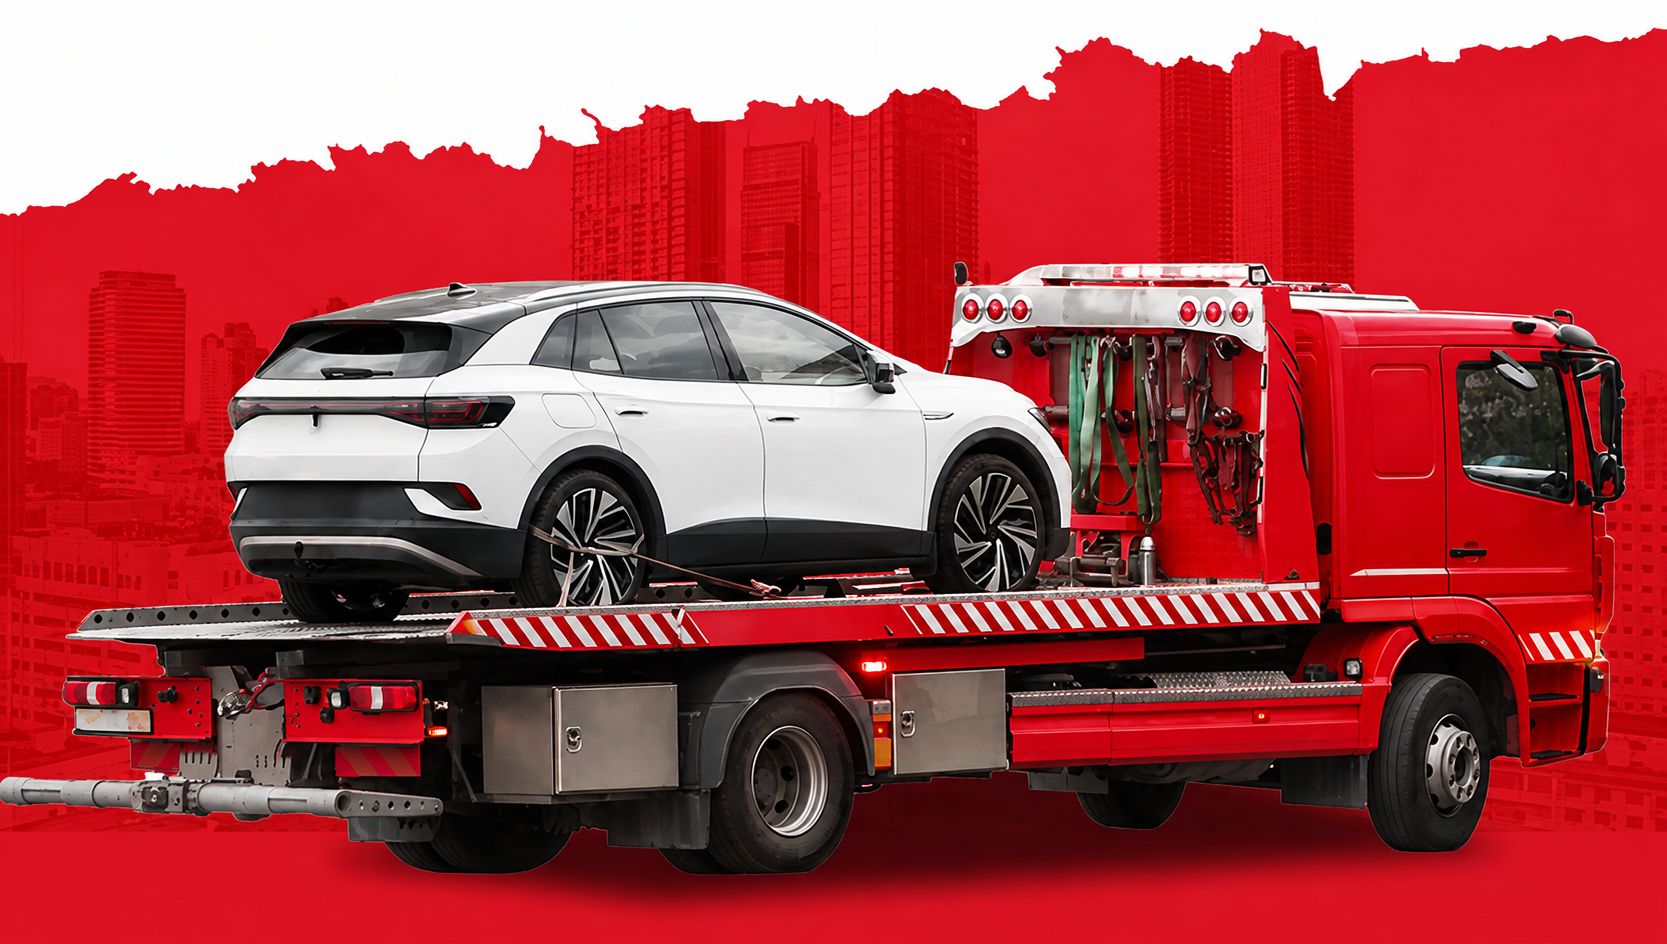
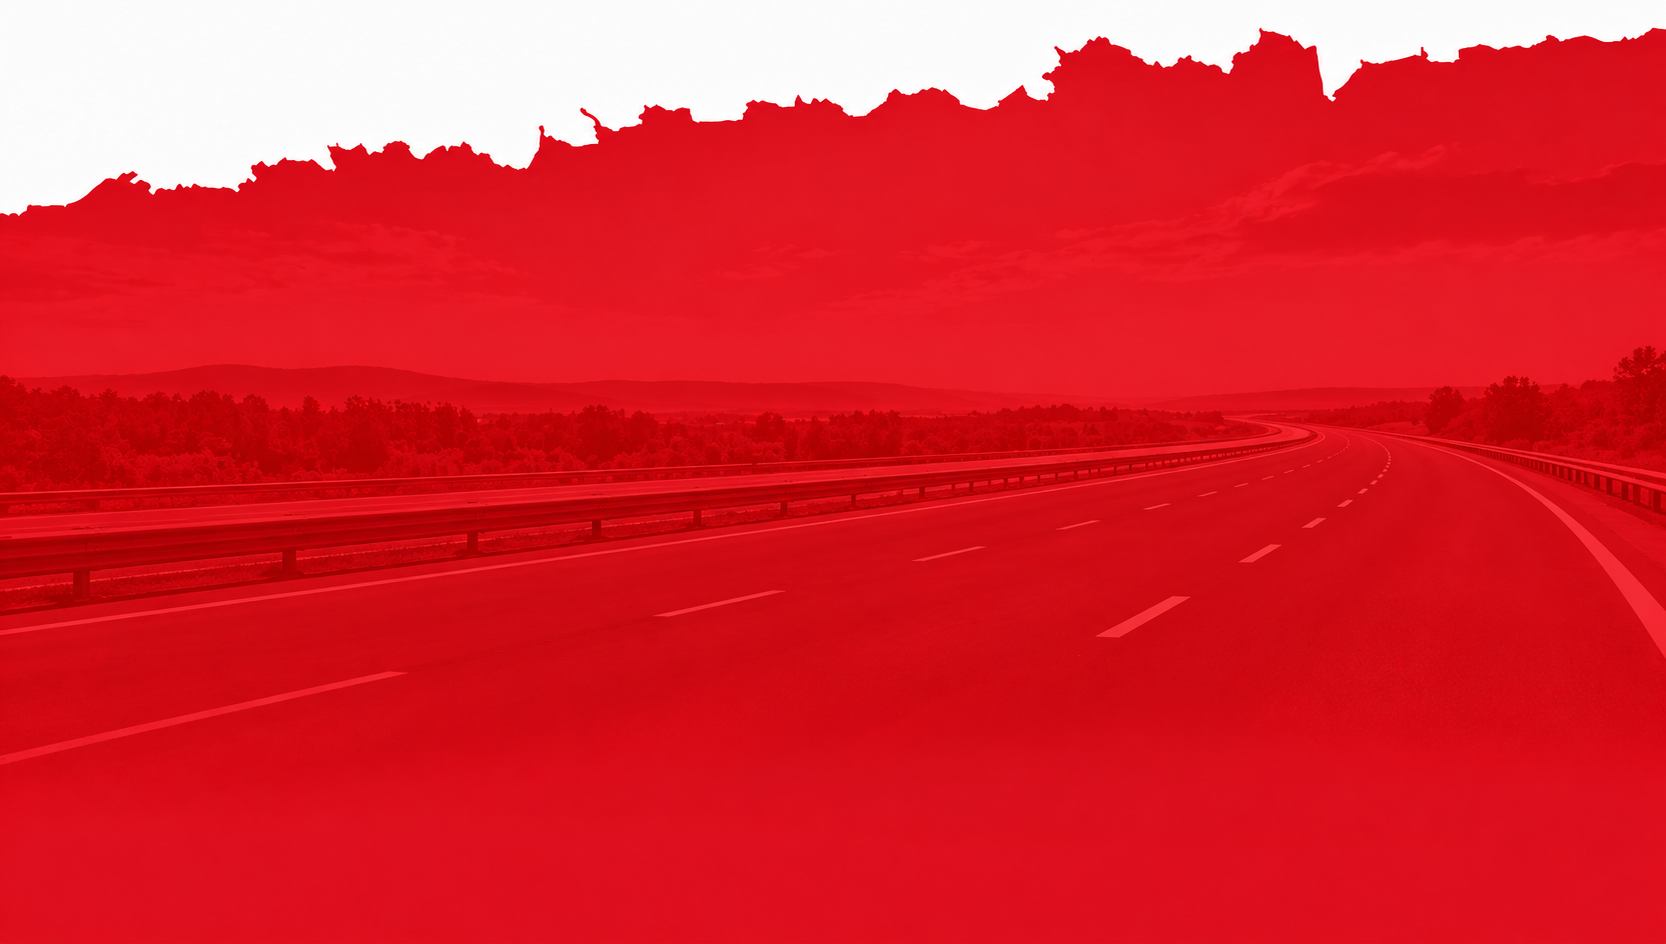
Revamp home screen and hero branding

diff --git a/lib/features/home/home_page.dart b/lib/features/home/home_page.dart
@@ -17,6 +17,9 @@ class HomePage extends StatefulWidget {
 }
 
 class _HomePageState extends State<HomePage> {
+  // Set to false if hero.png already contains the "24/7 Roadside Assistance" text.
+  static const bool _showHeroText = true;
+
   // Add / remove image paths here — the carousel adapts to however many you put.
   final List<String> _heroImages = const [
     'assets/images/fuelstation.jpg',
@@ -30,9 +33,9 @@ class _HomePageState extends State<HomePage> {
 
   String get _greeting {
     final hour = DateTime.now().hour;
-    if (hour < 12) return 'Good Morning!';
-    if (hour < 17) return 'Good Afternoon!';
-    return 'Good Evening!';
+    if (hour < 12) return 'Good Morning';
+    if (hour < 17) return 'Good Afternoon';
+    return 'Good Evening';
   }
 
   @override
@@ -76,98 +79,177 @@ class _HomePageState extends State<HomePage> {
     super.dispose();
   }
 
-  @override
-  Widget build(BuildContext context) {
-    return Scaffold(
-      backgroundColor: Colors.transparent,
-      body: Container(
-        decoration: const BoxDecoration(
-          gradient: LinearGradient(
-            begin: Alignment.topLeft,
-            end: Alignment.centerRight,
-            colors: [
-              Color.fromARGB(255, 255, 195, 66),
-              Color.fromARGB(255, 255, 240, 153),
-            ],
-          ),
-        ),
-        child: SafeArea(
-          bottom: false,
-          child: Column(
-            children: [
-              // Fixed header and search bar
-              FutureBuilder<AppUser?>(
-                future: _userFuture,
-                builder: (context, snapshot) {
-                  final appUser = snapshot.data;
-                  final userName = appUser?.name.trim().isNotEmpty == true
-                      ? appUser!.name
-                      : 'Driver';
-                  final profileImagePath = appUser?.profileImagePath ?? '';
+  Widget _buildHeader() {
+    return FutureBuilder<AppUser?>(
+      future: _userFuture,
+      builder: (context, snapshot) {
+        final appUser = snapshot.data;
+        final userName = appUser?.name.trim().isNotEmpty == true
+            ? appUser!.name
+            : 'Driver';
+        final profileImagePath = appUser?.profileImagePath ?? '';
 
-                  return Padding(
-                    padding: const EdgeInsets.fromLTRB(20, 20, 20, 16),
-                    child: Row(
-                      mainAxisAlignment: MainAxisAlignment.spaceBetween,
-                      children: [
-                        Container(
+        return Padding(
+          padding: const EdgeInsets.symmetric(horizontal: 20),
+          child: Row(
+            children: [
+              Container(
+                width: 48,
+                height: 48,
+                decoration: BoxDecoration(
+                  shape: BoxShape.circle,
+                  border: Border.all(color: Colors.grey.shade300),
+                ),
+                child: ClipOval(
+                  child: profileImagePath.isEmpty
+                      ? Image.asset(
+                          'assets/images/profile.png',
                           width: 48,
                           height: 48,
-                          decoration: BoxDecoration(
-                            shape: BoxShape.circle,
-                            border: Border.all(
-                              color: const Color.fromARGB(0, 212, 211, 211),
-                            ),
-                          ),
-                          child: ClipOval(
-                            child: profileImagePath.isEmpty
-                                ? Image.asset(
-                                    'assets/images/profile.png',
-                                    width: 48,
-                                    height: 48,
-                                    fit: BoxFit.cover,
-                                  )
-                                : Image.network(
-                                    profileImagePath,
-                                    width: 48,
-                                    height: 48,
-                                    fit: BoxFit.cover,
-                                    errorBuilder:
-                                        (context, error, stackTrace) =>
-                                            Image.asset(
-                                              'assets/images/profile.png',
-                                              width: 48,
-                                              height: 48,
-                                              fit: BoxFit.cover,
-                                            ),
-                                  ),
-                          ),
-                        ),
-                        Expanded(
-                          child: Padding(
-                            padding: const EdgeInsets.symmetric(horizontal: 12),
-                            child: Text(
-                              'Hi $userName,\n$_greeting',
-                              style: const TextStyle(
-                                fontSize: 15,
-
-                                fontWeight: FontWeight.w500,
-                                height: 1.3,
-                                color: Color.fromARGB(255, 0, 0, 0),
+                          fit: BoxFit.cover,
+                        )
+                      : Image.network(
+                          profileImagePath,
+                          width: 48,
+                          height: 48,
+                          fit: BoxFit.cover,
+                          errorBuilder: (context, error, stackTrace) =>
+                              Image.asset(
+                                'assets/images/profile.png',
+                                width: 48,
+                                height: 48,
+                                fit: BoxFit.cover,
                               ),
-                            ),
-                          ),
                         ),
-                        Icon(
-                          Icons.notifications_none,
-                          size: 26,
-                          color: Colors.black87,
-                        ),
-                      ],
-                    ),
-                  );
-                },
+                ),
               ),
+              Expanded(
+                child: Padding(
+                  padding: const EdgeInsets.symmetric(horizontal: 10),
+                  child: Column(
+                    mainAxisAlignment: MainAxisAlignment.center,
+                    crossAxisAlignment: CrossAxisAlignment.start,
+                    children: [
+                      Text(
+                        _greeting,
+                        style: TextStyle(
+                          fontSize: 12,
+                          color: Colors.grey.shade600,
+                        ),
+                      ),
+                      const SizedBox(height: 2),
+                      Text(
+                        userName,
+                        maxLines: 1,
+                        overflow: TextOverflow.ellipsis,
+                        style: const TextStyle(
+                          fontSize: 14,
+                          fontWeight: FontWeight.w500,
+                          color: Colors.black,
+                        ),
+                      ),
+                    ],
+                  ),
+                ),
+              ),
+              const Icon(
+                Icons.notifications_none,
+                size: 26,
+                color: Colors.black87,
+              ),
+            ],
+          ),
+        );
+      },
+    );
+  }
+
+  Widget _buildHeroTextOverlay() {
+    const shadows = [
+      Shadow(color: Colors.black26, blurRadius: 4, offset: Offset(0, 1)),
+    ];
+    return const Padding(
+      padding: EdgeInsets.only(bottom: 0),
+      child: Column(
+        mainAxisAlignment: MainAxisAlignment.center,
+        children: [
+          Text(
+            '24/7 Roadside Assistance',
+            textAlign: TextAlign.center,
+            style: TextStyle(
+              fontSize: 22,
+              fontWeight: FontWeight.w800,
+              color: Colors.white,
+              shadows: shadows,
+            ),
+          ),
+          SizedBox(height: 4),
+          Text(
+            'Anywhere Across the Island',
+            textAlign: TextAlign.center,
+            style: TextStyle(
+              fontSize: 13,
+              fontWeight: FontWeight.w700,
+              color: Colors.white,
+              shadows: shadows,
+            ),
+          ),
+        ],
+      ),
+    );
+  }
+
+  @override
+  Widget build(BuildContext context) {
+    final topInset = MediaQuery.of(context).padding.top;
+    const headerContentHeight = 100.0; // avatar row area
+    const heroTextAreaHeight = 120.0; // visible hero height above white card
+    const heroOverlap = 50.0; // hero image extends behind the card corners
+
+    final headerHeight = topInset + headerContentHeight;
+
+    return Scaffold(
+      backgroundColor: Colors.white,
+      body: Stack(
+        children: [
+          // Hero image (red banner) sits just below the header,
+          // and extends behind the rounded top of the white card.
+          Positioned(
+            top: headerHeight,
+            left: 0,
+            right: 0,
+            height: heroTextAreaHeight + heroOverlap,
+            child: Image.asset(
+              'assets/images/hero.png',
+              fit: BoxFit.cover,
+              alignment: Alignment.topCenter,
+              errorBuilder: (context, error, stackTrace) =>
+                  Container(color: const Color(0xFFE30613)),
+            ),
+          ),
+
+          Column(
+            children: [
+              // Header (avatar, greeting, bell)
+              SizedBox(
+                height: headerHeight,
+                child: Padding(
+                  padding: EdgeInsets.only(top: topInset),
+                  child: Align(
+                    alignment: Alignment.center,
+                    child: _buildHeader(),
+                  ),
+                ),
+              ),
+
+              // Hero title text area
+              SizedBox(
+                height: heroTextAreaHeight,
+                width: double.infinity,
+                child: _showHeroText ? _buildHeroTextOverlay() : null,
+              ),
+
+              // White rounded content card
               Expanded(
                 child: Container(
                   clipBehavior: Clip.antiAlias,
@@ -191,9 +273,8 @@ class _HomePageState extends State<HomePage> {
                         child: Column(
                           crossAxisAlignment: CrossAxisAlignment.start,
                           children: [
-                            const SizedBox(height: 5),
                             Padding(
-                              padding: const EdgeInsets.fromLTRB(20, 20, 20, 0),
+                              padding: const EdgeInsets.fromLTRB(20, 25, 20, 0),
                               child: Container(
                                 height: 52,
                                 padding: const EdgeInsets.symmetric(
@@ -213,7 +294,7 @@ class _HomePageState extends State<HomePage> {
                                     ),
                                     const SizedBox(width: 10),
                                     Text(
-                                      'What service do you need?',
+                                      'What service do you need ?',
                                       style: TextStyle(
                                         fontSize: 15,
                                         color: Colors.grey.shade500,
@@ -261,9 +342,9 @@ class _HomePageState extends State<HomePage> {
                                     children: [
                                       Expanded(
                                         child: _ServiceItem(
-                                          label: 'Request Fuel',
+                                          label: 'Jump Start',
                                           imagePath:
-                                              'assets/images/outoffuel.png',
+                                              'assets/images/jumpstart.png',
                                           height: 60,
                                         ),
                                       ),
@@ -279,9 +360,9 @@ class _HomePageState extends State<HomePage> {
                                       const SizedBox(width: 10),
                                       Expanded(
                                         child: _ServiceItem(
-                                          label: 'Jump Start',
+                                          label: 'Fuel Delivery',
                                           imagePath:
-                                              'assets/images/jumpstart.png',
+                                              'assets/images/outoffuel.png',
                                           height: 60,
                                         ),
                                       ),
@@ -291,17 +372,16 @@ class _HomePageState extends State<HomePage> {
                                 ],
                               ),
                             ),
-                            Padding(
-                              padding: const EdgeInsets.fromLTRB(20, 0, 20, 0),
+                            const Padding(
+                              padding: EdgeInsets.fromLTRB(20, 0, 20, 0),
                               child: SizedBox(
                                 width: double.infinity,
                                 child: Column(
                                   crossAxisAlignment: CrossAxisAlignment.center,
-                                  children: const [
+                                  children: [
                                     SizedBox(height: 6),
-
                                     Text(
-                                      'Explore Other Services',
+                                      'Explore Nearby',
                                       textAlign: TextAlign.center,
                                       style: TextStyle(
                                         fontSize: 18,
@@ -313,7 +393,8 @@ class _HomePageState extends State<HomePage> {
                               ),
                             ),
                             const SizedBox(height: 20),
-                            // Auto-rotating hero carousel (changes image every 5 seconds).
+
+                            // Auto-rotating carousel
                             Padding(
                               padding: const EdgeInsets.fromLTRB(20, 0, 20, 0),
                               child: Container(
@@ -364,10 +445,6 @@ class _HomePageState extends State<HomePage> {
                       ),
 
                       // Bottom navigation bar overlays the scrollable content.
-                      // Home is tab index 0. All four tabs, icons, and
-                      // destinations (plus the signed-in user's uid) are
-                      // handled inside the nav bar itself — nothing to wire
-                      // up here.
                       Align(
                         alignment: Alignment.bottomCenter,
                         child: AppBottomNavBar(
@@ -381,7 +458,7 @@ class _HomePageState extends State<HomePage> {
               ),
             ],
           ),
-        ),
+        ],
       ),
     );
   }
